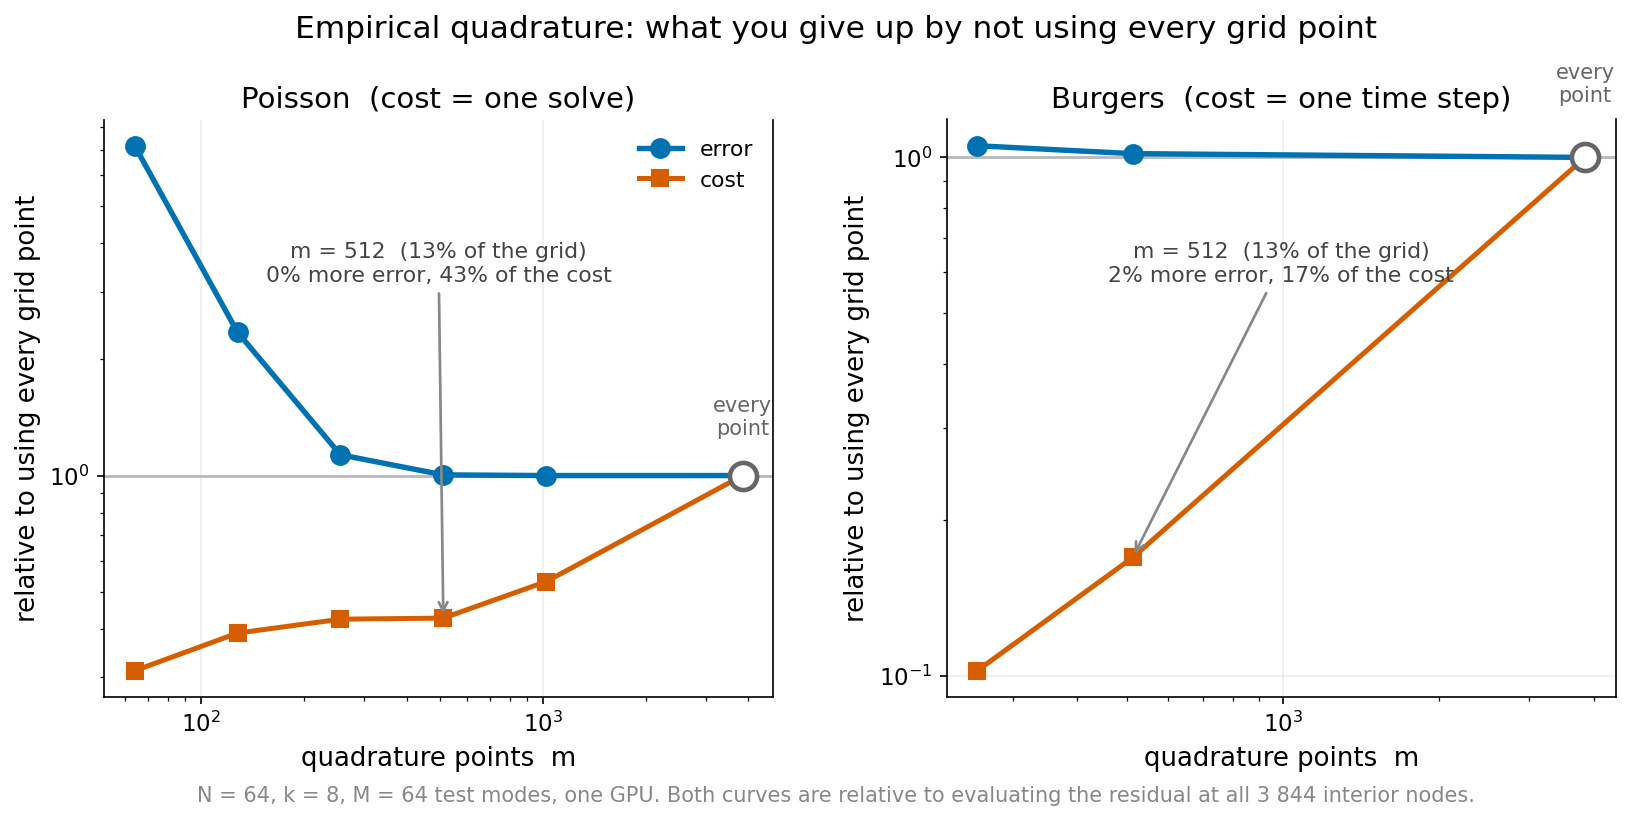
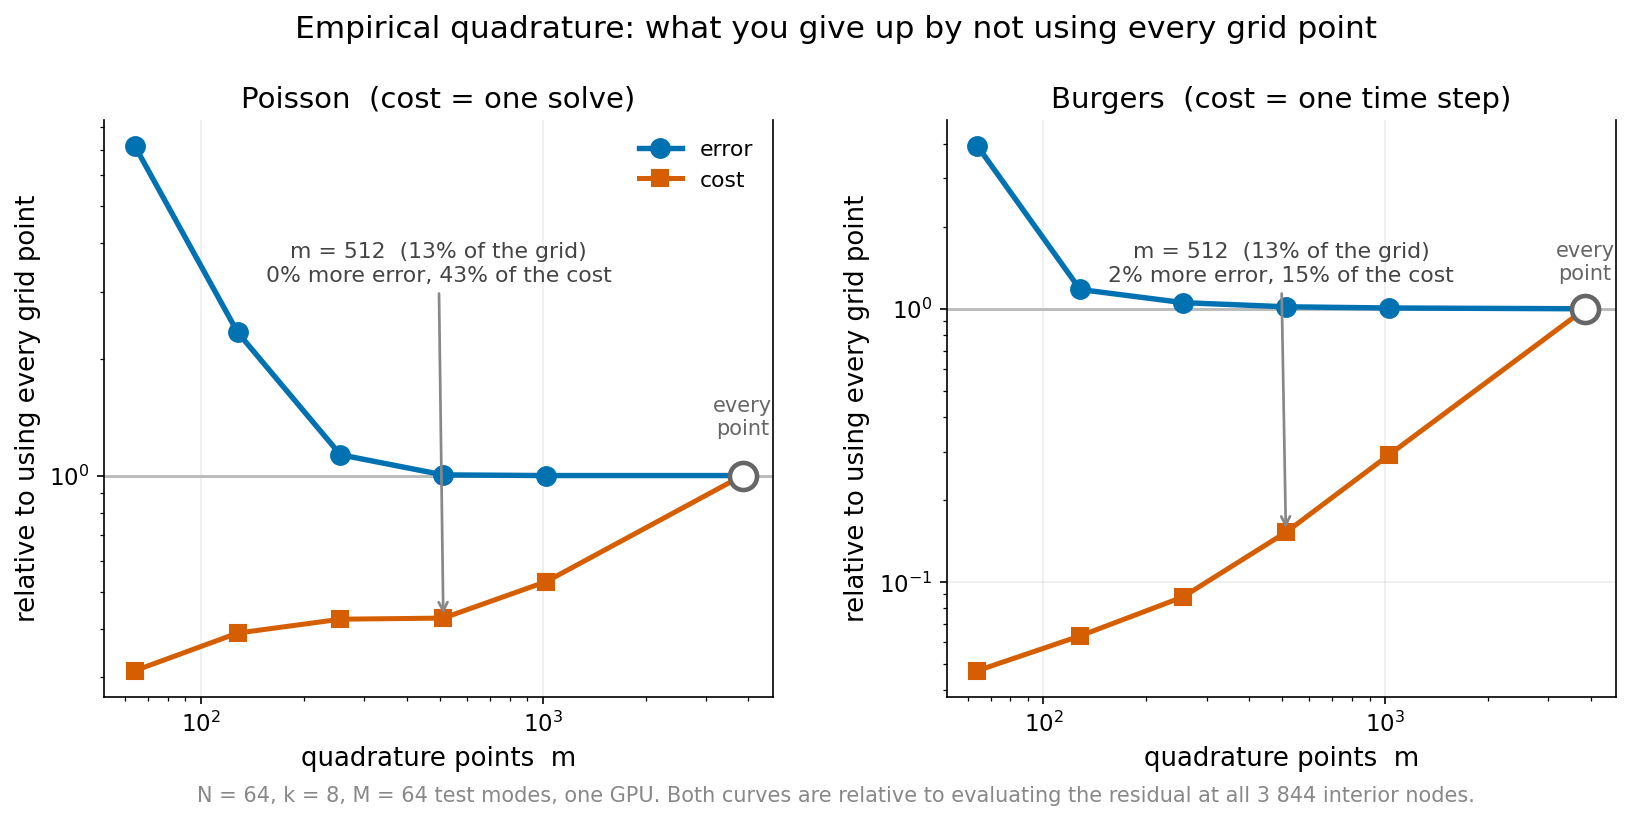
Complete the Burgers quadrature ladder with m=64, 128 and 1024
Those arms exist in the followup cell; the earlier table used only three points
from a different run. All six Burgers points now come from one run, so the
ladder is internally consistent and mirrors Poisson.

diff --git a/reports/make_eq_fig.py b/reports/make_eq_fig.py
@@ -27,10 +27,10 @@ POISSON = dict(
     fit=[1.4e-1, 1.6e-2, 2.4e-3, 2.4e-4, 1.6e-5, 0.0],
     ceiling=7.11e-3, unit="ms per solve")
 BURGERS = dict(
-    m=[256, 512, NINT],
-    err=[1.742e-2, 1.682e-2, 1.654e-2],
-    cost=[4.746, 7.851, 46.453],                        # ms per time step
-    fit=[6.21e-3, 1.042e-3, 0.0],
+    m=[64, 128, 256, 512, 1024, NINT],
+    err=[6.540e-2, 1.946e-2, 1.742e-2, 1.682e-2, 1.665e-2, 1.654e-2],
+    cost=[3.352, 4.498, 6.248, 10.772, 20.669, 70.946],  # ms per time step
+    fit=[2.09e-1, 4.89e-2, 6.21e-3, 1.04e-3, 1.45e-4, 0.0],
     ceiling=1.15e-2, unit="ms per step")
 
 ERRC, COSTC, FLOOR = "#0072B2", "#D55E00", "#009E73"

diff --git a/reports/Cost-Frontier-and-Hybrid.md b/reports/Cost-Frontier-and-Hybrid.md
@@ -68,14 +68,20 @@ At 64×64, k=8, M=64 test modes:
 | 1024 | 27% | 7.65e-3 | 18.9 | 1.6e-5 |
 | every point | 100% | 7.65e-3 | 35.6 | exact |
 | **Burgers** | | | *ms per step* | |
-| 256 | 7% | 1.74e-2 | 4.7 | 6.2e-3 |
-| 512 | 13% | 1.68e-2 | 7.9 | 1.0e-3 |
-| every point | 100% | 1.65e-2 | 46.5 | exact |
+| 64 | 2% | 6.54e-2 | 3.4 | 2.1e-1 |
+| 128 | 3% | 1.95e-2 | 4.5 | 4.9e-2 |
+| 256 | 7% | 1.74e-2 | 6.2 | 6.2e-3 |
+| 512 | 13% | 1.68e-2 | 10.8 | 1.0e-3 |
+| 1024 | 27% | 1.67e-2 | 20.7 | 1.5e-4 |
+| every point | 100% | 1.65e-2 | 70.9 | exact |
 
-Thirteen percent of the points gives the same error as all of them, for 43% of the cost on
-Poisson and 17% on Burgers. Error stops improving once the quadrature fit reaches about 1e-3;
-below that the decoder's own ceiling binds, not the quadrature. That makes the fit residual a
-usable way to choose the number of points without needing held-out error.
+Both problems behave the same way. Thirteen percent of the points gives essentially the
+full-grid error — identical on Poisson, 1.7% worse on Burgers — for 43% and 15% of the cost.
+Seven percent is already within 13% and 5% of it, at 42% and 9% of the cost.
+
+Error stops improving once the quadrature fit reaches about 1e-3; below that the decoder's own
+ceiling binds, not the quadrature. That makes the fit residual a usable way to choose the
+number of points without needing held-out error.
 
 The share matters more as the grid grows. Holding the point count at 256 and refining:
 

diff --git a/reports/eq_table.md b/reports/eq_table.md
@@ -8,6 +8,9 @@
 | 1024 | 27% | 7.65e-03 | 18.9 | 1.6e-05 |
 | every point | 100% | 7.65e-03 | 35.6 | exact |
 | **Burgers** | | | | |
-| 256 | 7% | 1.74e-02 | 4.7 | 6.2e-03 |
-| 512 | 13% | 1.68e-02 | 7.9 | 1.0e-03 |
-| every point | 100% | 1.65e-02 | 46.5 | exact |
+| 64 | 2% | 6.54e-02 | 3.4 | 2.1e-01 |
+| 128 | 3% | 1.95e-02 | 4.5 | 4.9e-02 |
+| 256 | 7% | 1.74e-02 | 6.2 | 6.2e-03 |
+| 512 | 13% | 1.68e-02 | 10.8 | 1.0e-03 |
+| 1024 | 27% | 1.67e-02 | 20.7 | 1.5e-04 |
+| every point | 100% | 1.65e-02 | 70.9 | exact |
